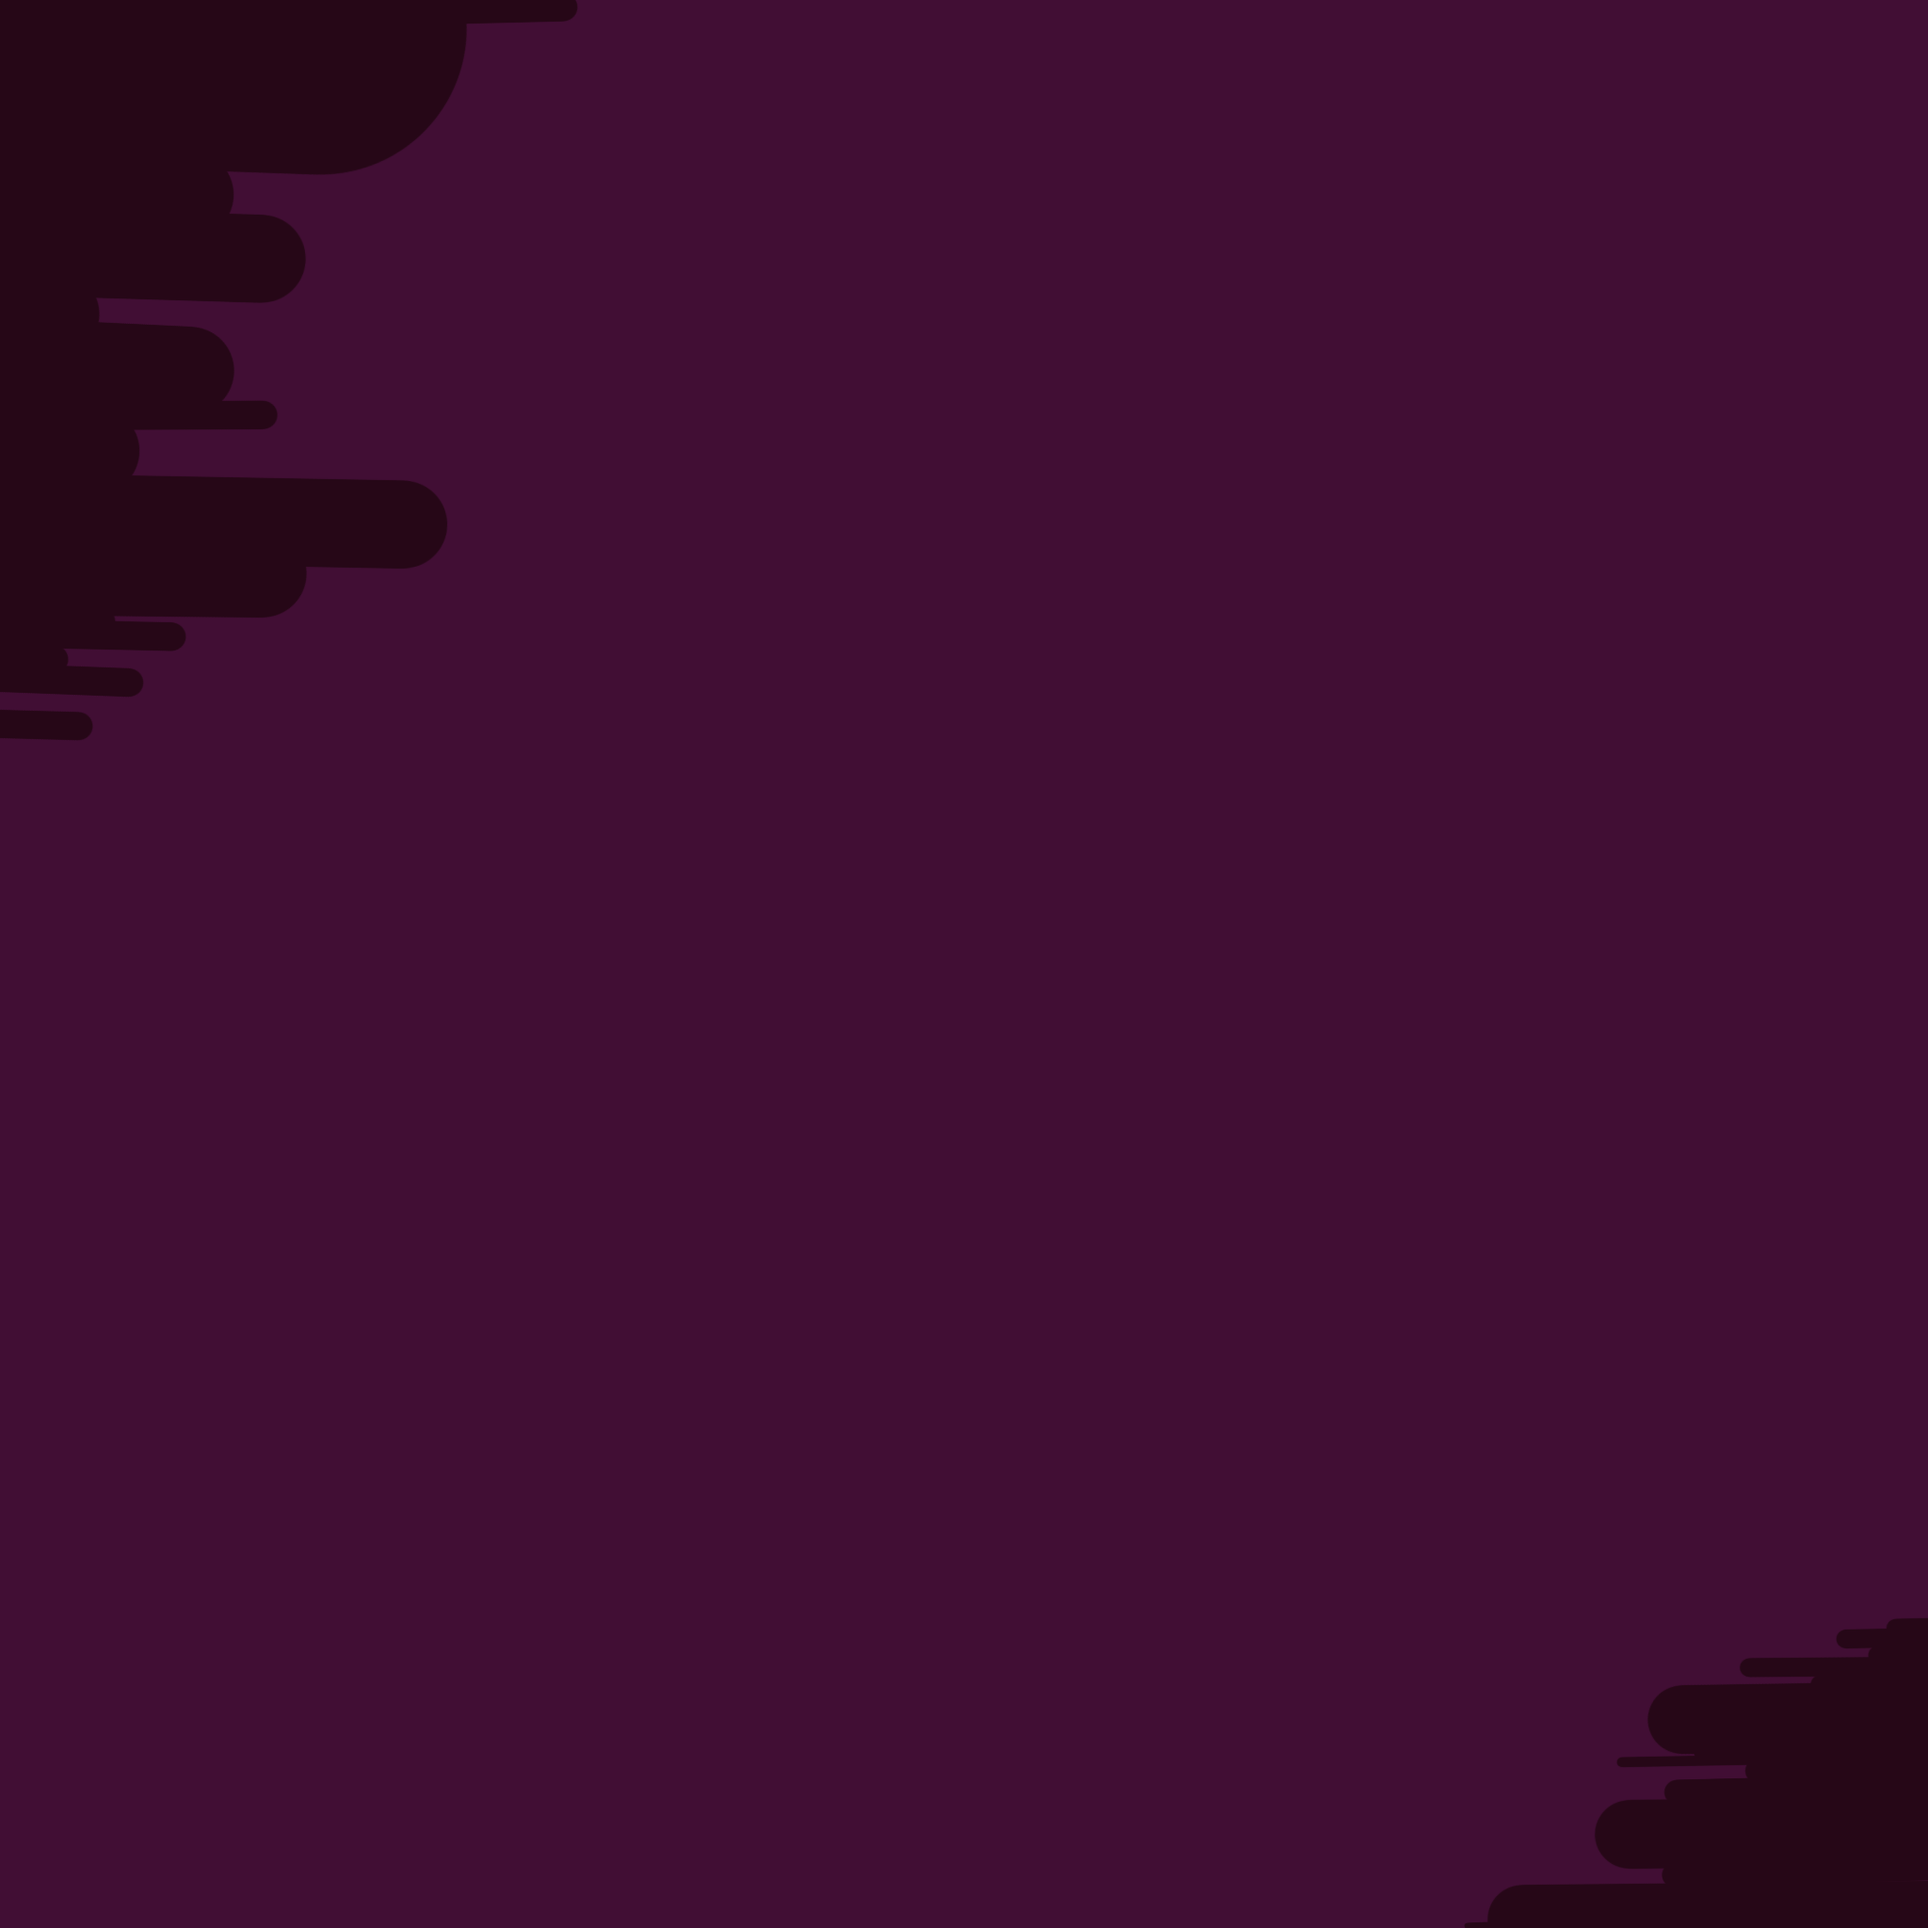
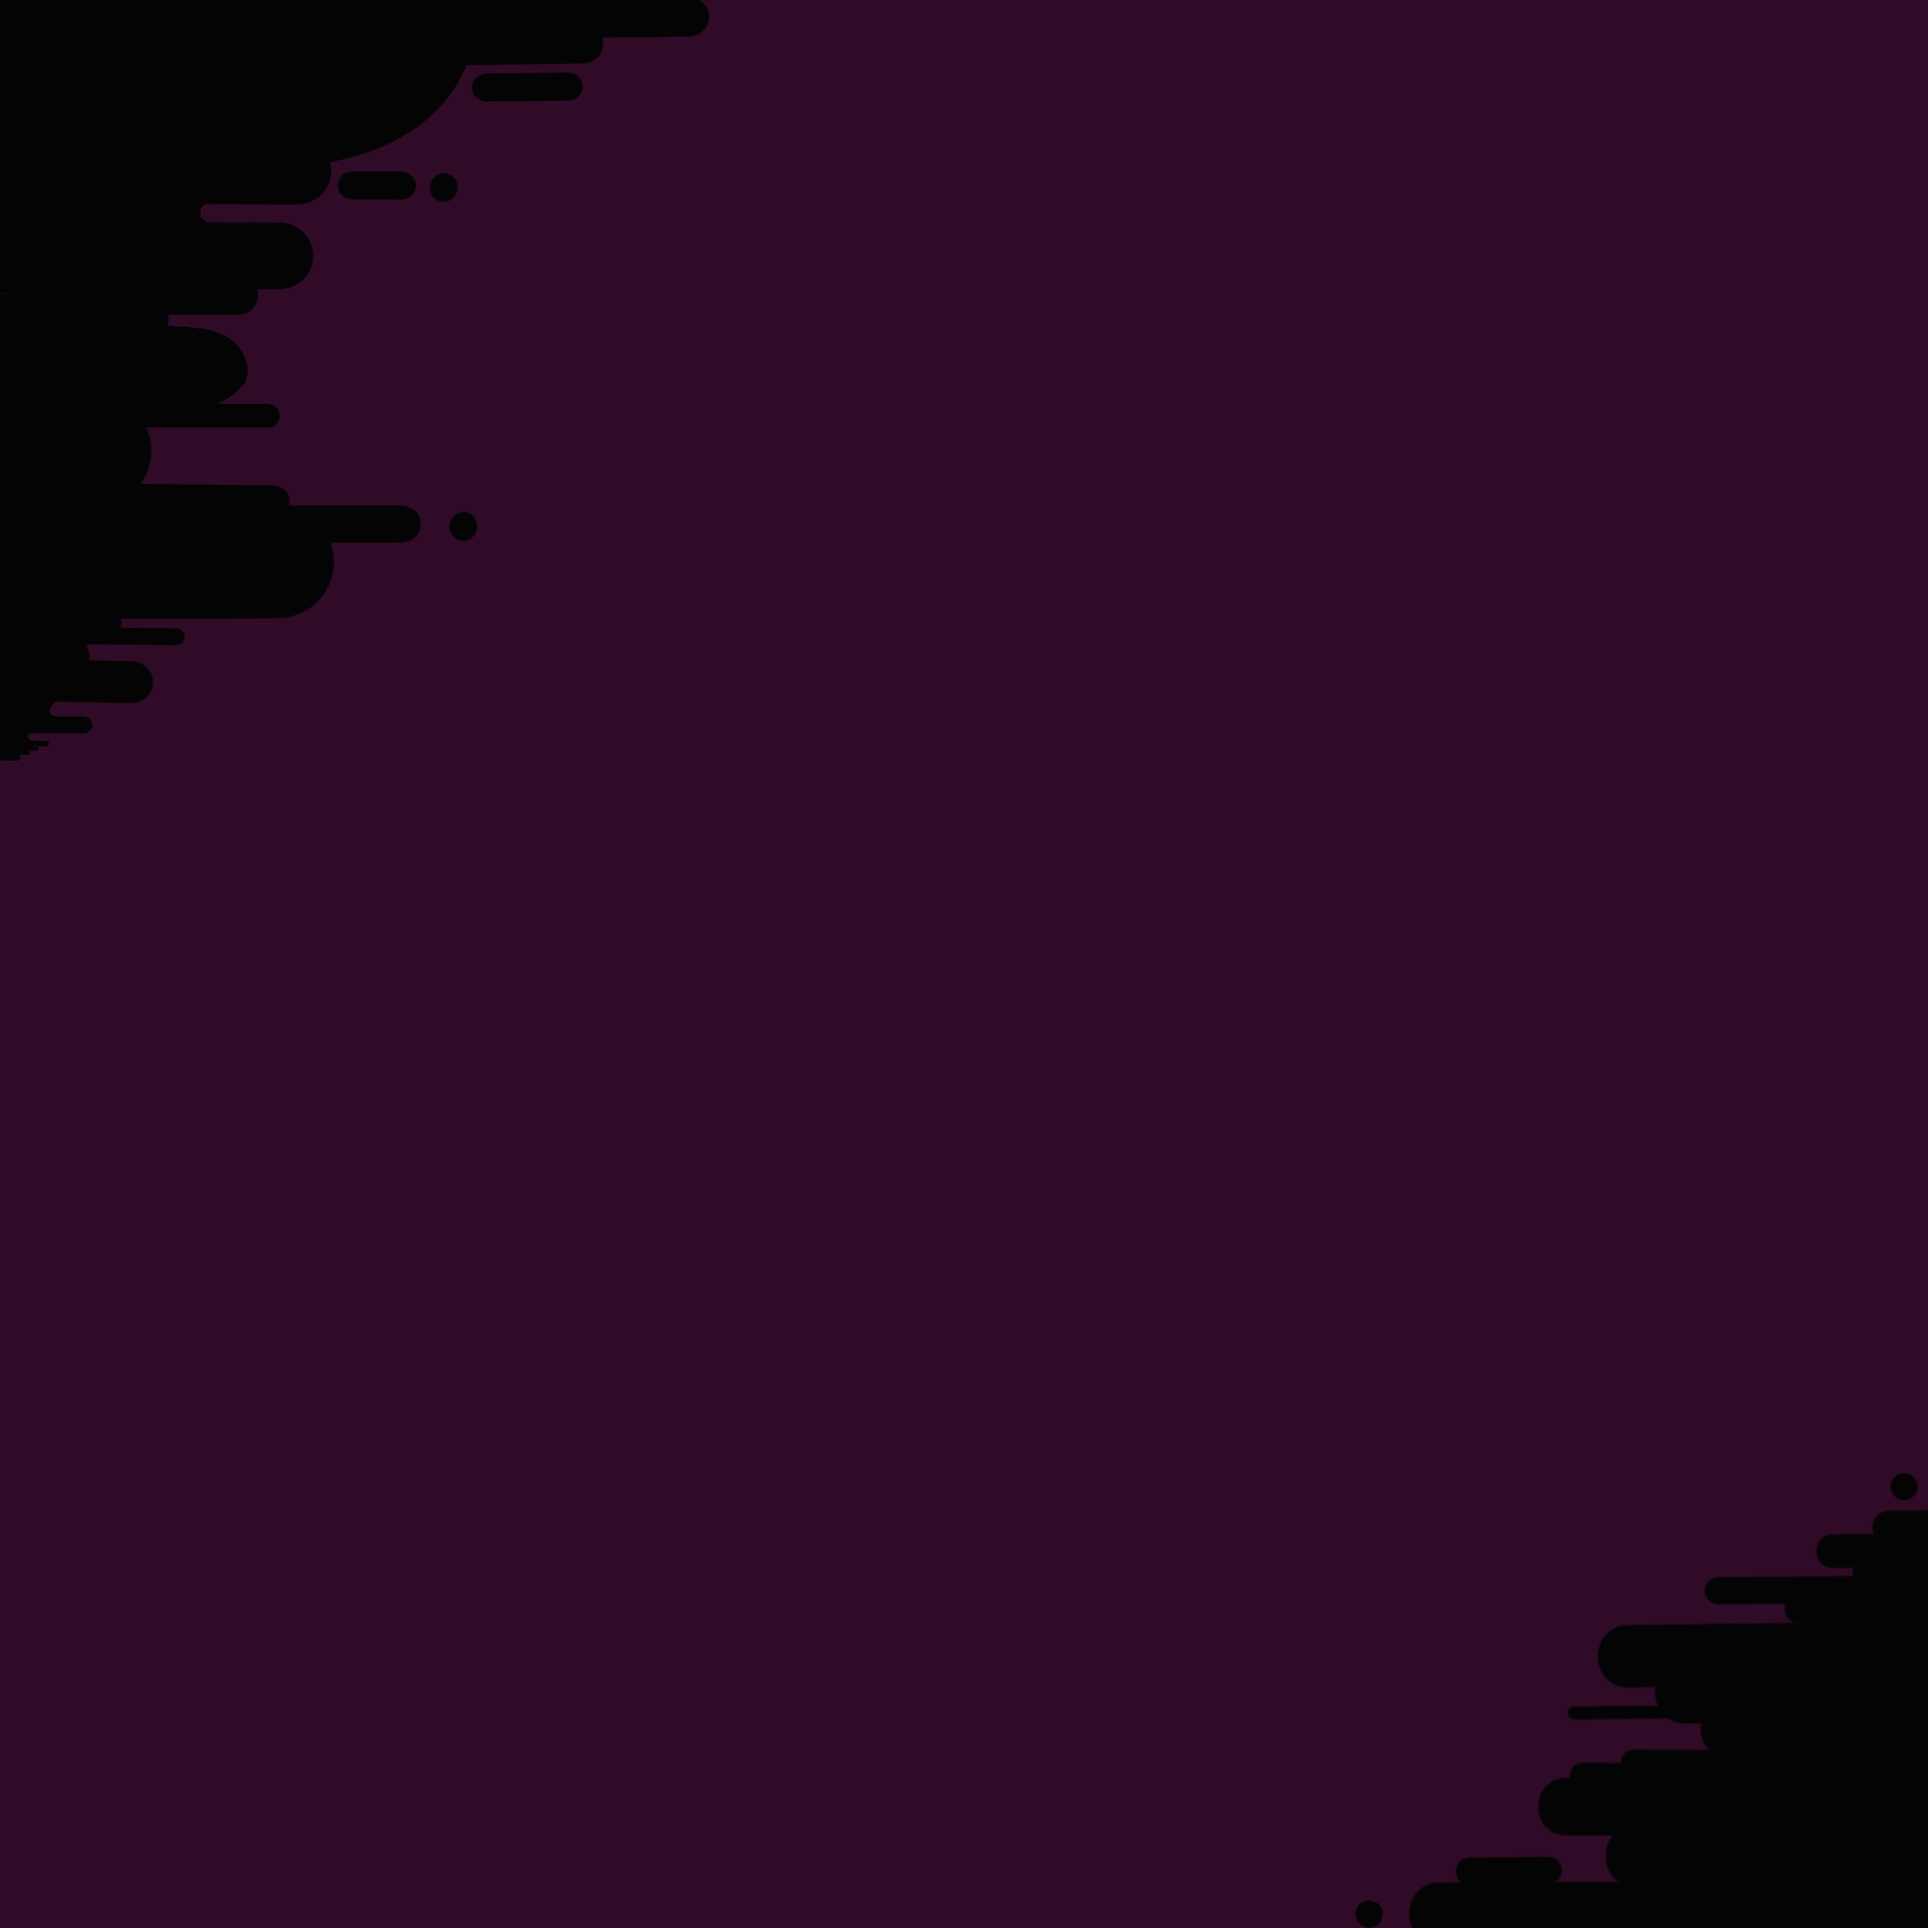
Deleted some comments from my code and changed monster

Changed region(s): [[0.0, 0.0, 0.375, 0.4062], [0.6875, 0.75, 1.0, 1.0]]

diff --git a/main_game/src_in_controllers/arduino.cpp b/main_game/src_in_controllers/arduino.cpp
@@ -17,15 +17,13 @@ std::string Ports::get_arduino_port() const {
 }
 
 void Arduino::write_to_port() {
-    //std::unique_lock l(m);
-    std::cerr << "!!!!!write_to_port!!!!!" << std::endl;
+    std::cerr << "writing into port..." << std::endl;
     size_t bytes_wrote = serial_.write("1");
     std::cerr << "bytes_wrote: " << bytes_wrote << std::endl;
 }
 
-void Arduino::make_a_move_void() {
+void Arduino::make_a_move() {
     while (keep_going) {
-        //std::unique_lock l(m);
         std::string line;
         line = serial_.readline();  // get line from arduino
         if (line == "MENU\n") {
@@ -42,13 +40,10 @@ void Arduino::make_a_move_void() {
 
         } else if (line == "NO\n") {
             std::cerr << "n" << std::endl;
-            /*damn->controller_out.close_live_for_coins_window();
-            damn->show_game_finish_window();*/
             damn->gamer_choice = God::stop_game;
 
         } else if (line == "YES\n") {
             std::cerr << "y" << std::endl;
-            /*damn->add_life_and_restart_game(damn->game->coins);*/
             damn->gamer_choice = God::continue_game;
 
         } else {
@@ -59,7 +54,7 @@ void Arduino::make_a_move_void() {
 }
 
 void Arduino::start_thread() {
-    ta = std::thread(&Arduino::make_a_move_void, this);
+    ta = std::thread(&Arduino::make_a_move, this);
 }
 
 Arduino::Arduino(const std::string &port, uint32_t baudrate) {
@@ -71,25 +66,6 @@ Arduino::Arduino(const std::string &port, uint32_t baudrate) {
     serial_.open();
     keep_going = true;
     this->start_thread();
-}
-
-Move Arduino::make_a_move() {
-    std::string line;
-    line = serial_.readline();  // get line from arduino
-    if (line == "MENU\n") {
-        // TODO тыкнуть функцию выхода в меню
-        return menu;
-    } else if (line == "RIGHT\n") {
-        damn->train.pushed_button_right();  // тык
-        std::cerr << "r" << std::endl;
-        return right;
-    } else if (line == "LEFT\n") {
-        damn->train.pushed_button_left();  // тык
-        std::cerr << "l" << std::endl;
-        return left;
-    } else {
-        return exception;
-    }
 }
 
 void Arduino::set_God(God *damn_) {

diff --git a/main_game/include_in_controllers/arduino.h b/main_game/include_in_controllers/arduino.h
@@ -2,12 +2,12 @@
 #define MAIN_GAME_ARDUINO_H
 
 #include <serial/serial.h>
+#include <atomic>
 #include <iostream>
+#include <mutex>
 #include <stdexcept>
 #include <thread>
-#include <atomic>
 #include "controllers_in.h"
-#include <mutex>
 
 class God;
 
@@ -23,9 +23,7 @@ struct Arduino : virtual Controller_in {
 
     Arduino(const std::string &port, uint32_t baudrate = 9600);
 
-    Move make_a_move();
-
-    void make_a_move_void();
+    void make_a_move();
 
     void start_thread();
 

diff --git a/main_game/src/God.cpp b/main_game/src/God.cpp
@@ -51,7 +51,7 @@ void God::make_changes_in_out_controller() {
             case eclipse::Create_alien_shot:
                 controller_out.set_obj(i.new_coordinates.first,
                                        i.new_coordinates.second, i.size, i.id,
-                                       "AquaShot");
+                                       "monster_shot");
                 break;
             case eclipse::Create_coin:
                 controller_out.set_obj(i.new_coordinates.first,
